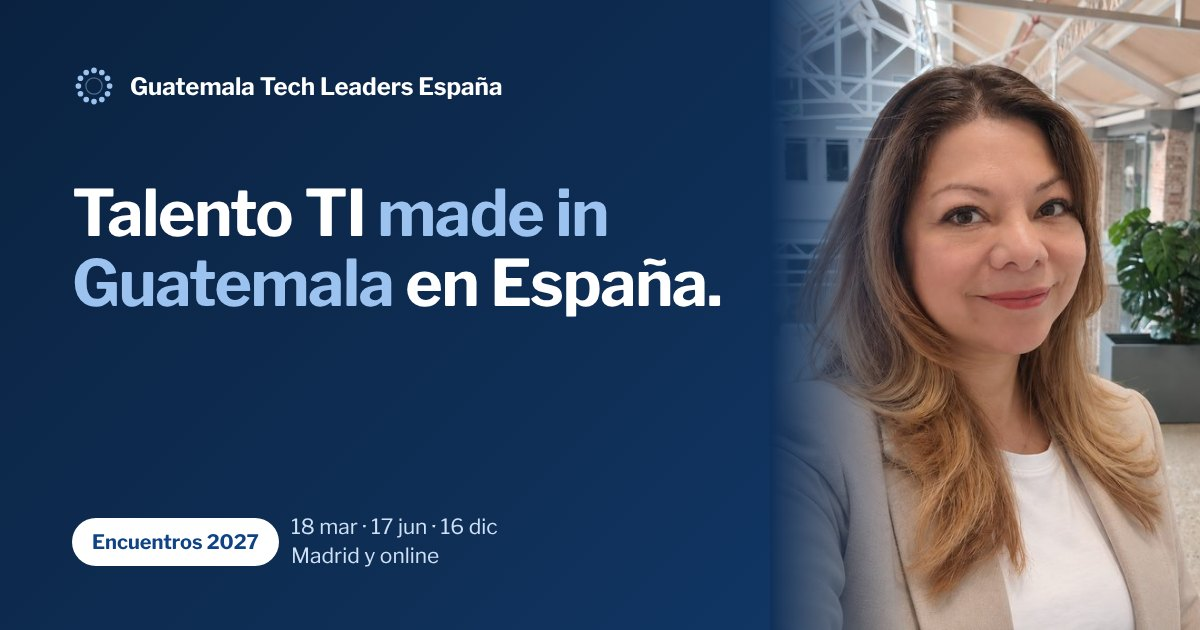
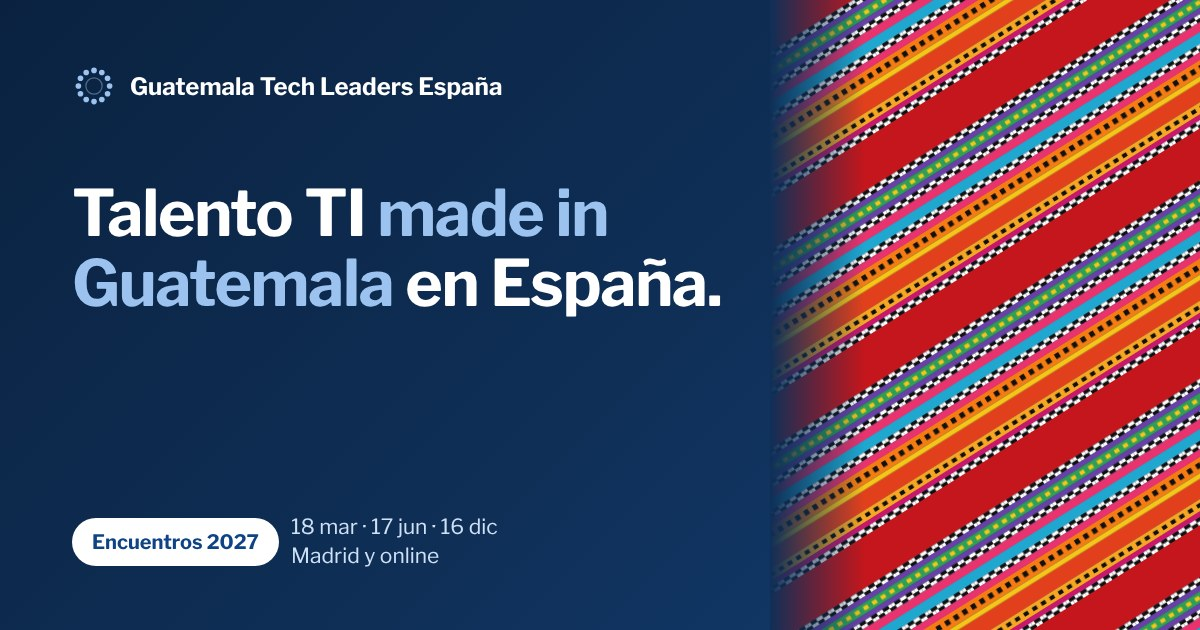
Motivos textiles guatemaltecos propios en lugar de la foto
- Panel de tejido en zigzag junto a la cita de la portada.
- Faja de rayas diagonales bajo la portada y sobre el pie.
- Tarjeta social con rayas tejidas en lugar del retrato.

Claude-Session: https://claude.ai/code/session_01ANWUHrw26KNrAm8fD9SGFG

diff --git a/index.html b/index.html
@@ -44,6 +44,7 @@
     <svg class="red" viewBox="0 0 400 400" aria-hidden="true" focusable="false"><circle class="halo" cx="200" cy="200" r="64" fill="currentColor" opacity=".12"/><circle cx="200" cy="200" r="40" fill="none" stroke="currentColor" stroke-width="1.5" opacity=".5"/><circle cx="200" cy="200" r="88" fill="none" stroke="currentColor" stroke-width=".6" opacity=".18"/><circle class="p n" cx="286.4" cy="216.6" r="6.5" fill="currentColor" style="animation-delay:0.00s"/><circle class="p" cx="260.2" cy="264.2" r="6.5" fill="currentColor" style="animation-delay:4.29s"/><circle class="p" cx="211.0" cy="287.3" r="6.5" fill="currentColor" style="animation-delay:2.09s"/><circle class="p" cx="157.6" cy="277.1" r="6.5" fill="currentColor" style="animation-delay:6.38s"/><circle class="p" cx="120.3" cy="237.4" r="6.5" fill="currentColor" style="animation-delay:4.18s"/><circle class="p" cx="113.6" cy="183.4" r="6.5" fill="currentColor" style="animation-delay:1.97s"/><circle class="p" cx="139.8" cy="135.8" r="6.5" fill="currentColor" style="animation-delay:6.27s"/><circle class="p n" cx="189.0" cy="112.7" r="6.5" fill="currentColor" style="animation-delay:4.06s"/><circle class="p" cx="242.4" cy="122.9" r="6.5" fill="currentColor" style="animation-delay:1.86s"/><circle class="p" cx="279.7" cy="162.6" r="6.5" fill="currentColor" style="animation-delay:6.15s"/><circle cx="200" cy="200" r="138" fill="none" stroke="currentColor" stroke-width=".6" opacity=".18"/><circle class="p" cx="251.4" cy="328.1" r="5.5" fill="currentColor" style="animation-delay:3.95s"/><circle class="p" cx="204.5" cy="337.9" r="5.5" fill="currentColor" style="animation-delay:1.74s"/><circle class="p" cx="157.0" cy="331.1" r="5.5" fill="currentColor" style="animation-delay:6.04s"/><circle class="p" cx="114.8" cy="308.5" r="5.5" fill="currentColor" style="animation-delay:3.83s"/><circle class="p n" cx="82.8" cy="272.9" r="5.5" fill="currentColor" style="animation-delay:1.62s"/><circle class="p" cx="64.9" cy="228.4" r="5.5" fill="currentColor" style="animation-delay:5.92s"/><circle class="p" cx="63.4" cy="180.5" r="5.5" fill="currentColor" style="animation-delay:3.71s"/><circle class="p" cx="78.3" cy="134.9" r="5.5" fill="currentColor" style="animation-delay:1.51s"/><circle class="p" cx="107.9" cy="97.2" r="5.5" fill="currentColor" style="animation-delay:5.80s"/><circle class="p" cx="148.6" cy="71.9" r="5.5" fill="currentColor" style="animation-delay:3.60s"/><circle class="p" cx="195.5" cy="62.1" r="5.5" fill="currentColor" style="animation-delay:1.39s"/><circle class="p n" cx="243.0" cy="68.9" r="5.5" fill="currentColor" style="animation-delay:5.69s"/><circle class="p" cx="285.2" cy="91.5" r="5.5" fill="currentColor" style="animation-delay:3.48s"/><circle class="p" cx="317.2" cy="127.1" r="5.5" fill="currentColor" style="animation-delay:1.28s"/><circle class="p" cx="335.1" cy="171.6" r="5.5" fill="currentColor" style="animation-delay:5.57s"/><circle class="p" cx="336.6" cy="219.5" r="5.5" fill="currentColor" style="animation-delay:3.37s"/><circle class="p" cx="321.7" cy="265.1" r="5.5" fill="currentColor" style="animation-delay:1.16s"/><circle class="p" cx="292.1" cy="302.8" r="5.5" fill="currentColor" style="animation-delay:5.46s"/><circle cx="200" cy="200" r="184" fill="none" stroke="currentColor" stroke-width=".6" opacity=".18"/><circle class="p n" cx="105.7" cy="358.0" r="4.5" fill="currentColor" style="animation-delay:3.25s"/><circle class="p" cx="72.9" cy="333.0" r="4.5" fill="currentColor" style="animation-delay:1.04s"/><circle class="p" cx="46.5" cy="301.4" r="4.5" fill="currentColor" style="animation-delay:5.34s"/><circle class="p" cx="27.7" cy="264.7" r="4.5" fill="currentColor" style="animation-delay:3.13s"/><circle class="p" cx="17.7" cy="224.7" r="4.5" fill="currentColor" style="animation-delay:0.93s"/><circle class="p" cx="16.7" cy="183.5" r="4.5" fill="currentColor" style="animation-delay:5.22s"/><circle class="p" cx="25.0" cy="143.2" r="4.5" fill="currentColor" style="animation-delay:3.02s"/><circle class="p n" cx="42.0" cy="105.7" r="4.5" fill="currentColor" style="animation-delay:0.81s"/><circle class="p" cx="67.0" cy="72.9" r="4.5" fill="currentColor" style="animation-delay:5.11s"/><circle class="p" cx="98.6" cy="46.5" r="4.5" fill="currentColor" style="animation-delay:2.90s"/><circle class="p" cx="135.3" cy="27.7" r="4.5" fill="currentColor" style="animation-delay:0.70s"/><circle class="p" cx="175.3" cy="17.7" r="4.5" fill="currentColor" style="animation-delay:4.99s"/><circle class="p" cx="216.5" cy="16.7" r="4.5" fill="currentColor" style="animation-delay:2.79s"/><circle class="p" cx="256.8" cy="25.0" r="4.5" fill="currentColor" style="animation-delay:0.58s"/><circle class="p n" cx="294.3" cy="42.0" r="4.5" fill="currentColor" style="animation-delay:4.88s"/><circle class="p" cx="327.1" cy="67.0" r="4.5" fill="currentColor" style="animation-delay:2.67s"/><circle class="p" cx="353.5" cy="98.6" r="4.5" fill="currentColor" style="animation-delay:0.46s"/><circle class="p" cx="372.3" cy="135.3" r="4.5" fill="currentColor" style="animation-delay:4.76s"/><circle class="p" cx="382.3" cy="175.3" r="4.5" fill="currentColor" style="animation-delay:2.55s"/><circle class="p" cx="383.3" cy="216.5" r="4.5" fill="currentColor" style="animation-delay:0.35s"/><circle class="p" cx="375.0" cy="256.8" r="4.5" fill="currentColor" style="animation-delay:4.64s"/><circle class="p n" cx="358.0" cy="294.3" r="4.5" fill="currentColor" style="animation-delay:2.44s"/><circle class="p" cx="333.0" cy="327.1" r="4.5" fill="currentColor" style="animation-delay:0.23s"/><circle class="p" cx="301.4" cy="353.5" r="4.5" fill="currentColor" style="animation-delay:4.53s"/><circle class="p" cx="264.7" cy="372.3" r="4.5" fill="currentColor" style="animation-delay:2.32s"/><circle class="p" cx="224.7" cy="382.3" r="4.5" fill="currentColor" style="animation-delay:0.12s"/><circle class="p" cx="183.5" cy="383.3" r="4.5" fill="currentColor" style="animation-delay:4.41s"/><circle class="p" cx="143.2" cy="375.0" r="4.5" fill="currentColor" style="animation-delay:2.21s"/></svg>
   </div>
 </section>
+<div class="faja" aria-hidden="true"></div>
 <div class="cinta" aria-hidden="true"><div><span>Inteligencia artificial</span><span>Ciberseguridad</span><span>Cloud</span><span>Datos</span><span>Software y producto</span><span>Fintech</span><span>Investigación</span><span>Inversión</span><span>Gobierno tecnológico</span><span>Startups</span><span>Infraestructura</span><span>Transformación digital</span><span>Inteligencia artificial</span><span>Ciberseguridad</span><span>Cloud</span><span>Datos</span><span>Software y producto</span><span>Fintech</span><span>Investigación</span><span>Inversión</span><span>Gobierno tecnológico</span><span>Startups</span><span>Infraestructura</span><span>Transformación digital</span></div></div>
 
 <section class="sec" id="encuentros">
@@ -102,7 +103,7 @@
 
 <section class="sec sec-marino">
   <div class="wrap voz aparece">
-    <img src="./assets/img/madelaine.jpg" width="760" height="694" alt="Madelaine Castro, impulsora de la iniciativa." loading="lazy">
+    <div class="tejido-panel" role="img" aria-label="Patrón inspirado en los tejidos tradicionales guatemaltecos."></div>
     <div>
       <blockquote>«Nuestro origen nos une. Lo que nos hace distintos nos hace crecer.»</blockquote>
       <cite>Madelaine Castro · Impulsora · <a href="./la-iniciativa.html" style="color:#cfe1f6">Conoce la iniciativa</a></cite>

diff --git a/assets/style.css b/assets/style.css
@@ -286,7 +286,7 @@ ul,ol{margin:0 0 1em;padding-left:1.2em}
 .legal li{margin-bottom:8px}
 
 /* ---------- pie ---------- */
-.pie-sitio{background:var(--marino);color:#a9bdd6;padding:64px 0 32px;font-size:15px}
+.pie-sitio{background:var(--marino);color:#a9bdd6;padding:84px 0 32px;font-size:15px}
 .pie-rej{display:grid;grid-template-columns:1.5fr 1fr 1fr;gap:48px}
 .pie-sitio .marca{color:#fff;margin-bottom:16px}
 .pie-sitio .marca .mark{color:#9cc3f0}
@@ -388,3 +388,10 @@ ul,ol{margin:0 0 1em;padding-left:1.2em}
 .aparece{opacity:0;transform:translateY(24px);transition:opacity .7s ease,transform .7s ease}
 .aparece.visto{opacity:1;transform:none}
 @media (prefers-reduced-motion:reduce){.red .p{animation:none;opacity:1}.cinta div{animation:none}.aparece{opacity:1;transform:none}.red .halo{animation:none}}
+
+/* =================== tejido =================== */
+.faja{height:22px;background:url('./img/faja.svg') 0 0/2400px 22px repeat-x}
+.tejido-panel{width:240px;height:300px;border-radius:20px;background:url('./img/tejido.svg') 0 0/90px auto repeat;box-shadow:0 20px 50px rgba(0,0,0,.35);border:4px solid rgba(255,255,255,.08)}
+@media (max-width:720px){.tejido-panel{width:100%;height:140px;border-radius:14px}}
+.pie-sitio{position:relative}
+.pie-sitio::before{content:"";position:absolute;left:0;right:0;top:0;height:22px;background:url('./img/faja.svg') 0 0/2400px 22px repeat-x}
